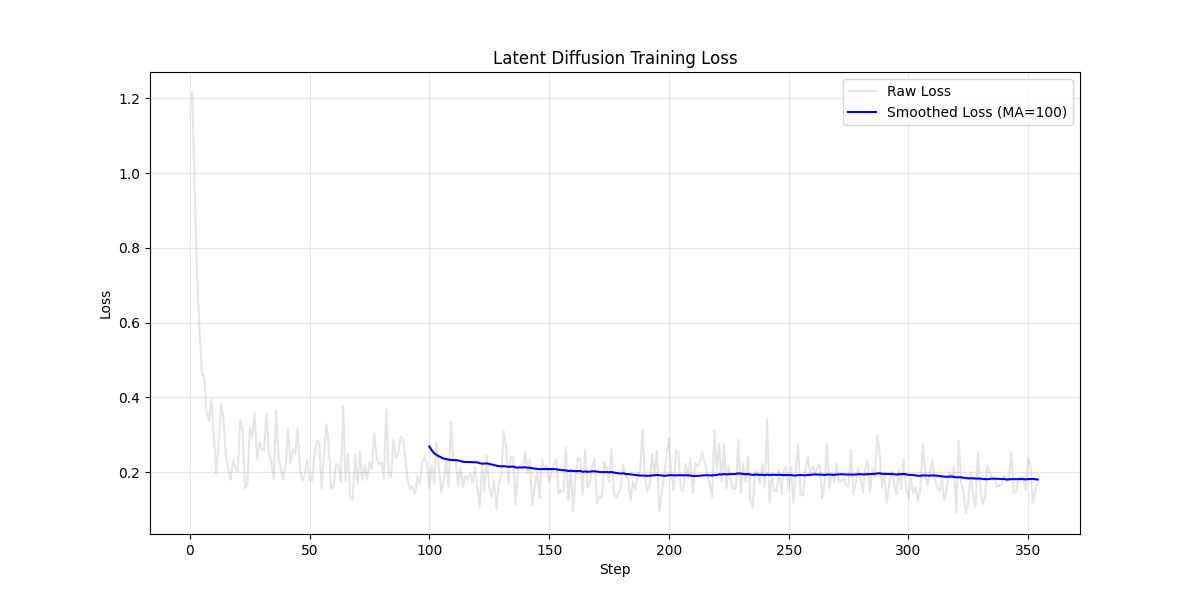
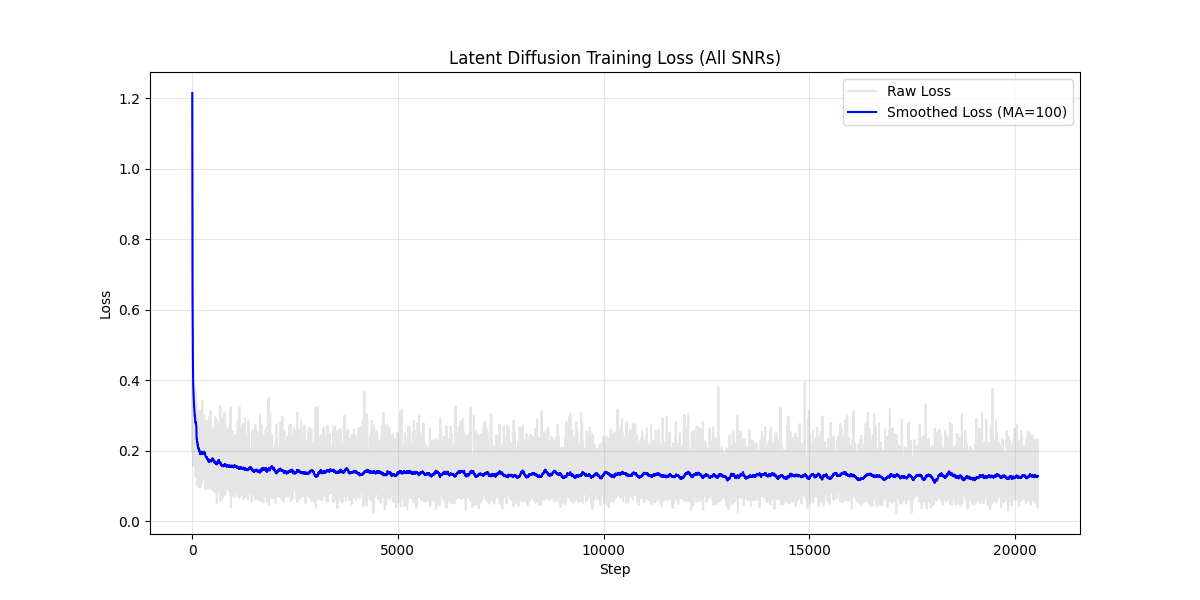
plot loss target snr

diff --git a/plot_loss.py b/plot_loss.py
@@ -3,7 +3,7 @@ import matplotlib.pyplot as plt
 import argparse
 import os
 
-def plot_loss(log_file, output_img):
+def plot_loss(log_file, output_img, target_snr=None, window=100):
     if not os.path.exists(log_file):
         print(f"Log file not found: {log_file}")
         return
@@ -15,8 +15,32 @@ def plot_loss(log_file, output_img):
         print(f"Error reading CSV: {e}")
         return
 
-    # 移動平均を計算してトレンドを見やすくする (Windowサイズ=100)
-    df['loss_smooth'] = df['loss'].rolling(window=100).mean()
+    # カラム名の空白除去（念のため）
+    df.columns = [c.strip() for c in df.columns]
+
+    # SNRフィルタリングモード
+    if target_snr is not None:
+        if 'snr' not in df.columns:
+            print("Error: 'snr' column not found in CSV. Cannot filter by SNR.")
+            return
+        
+        # 指定されたSNRの行のみ抽出
+        original_count = len(df)
+        df = df[df['snr'] == target_snr]
+        filtered_count = len(df)
+        
+        if filtered_count == 0:
+            print(f"No data found for SNR={target_snr}")
+            return
+        
+        print(f"Plotting mode: SNR={target_snr}dB (Found {filtered_count}/{original_count} steps)")
+        plot_title = f'Latent Diffusion Training Loss (SNR={target_snr}dB)'
+    else:
+        print(f"Plotting mode: All Data")
+        plot_title = 'Latent Diffusion Training Loss (All SNRs)'
+
+    # 移動平均を計算 (min_periods=1にすることでデータ不足時のNaNを防ぐ)
+    df['loss_smooth'] = df['loss'].rolling(window=window, min_periods=1).mean()
 
     plt.figure(figsize=(12, 6))
     
@@ -24,11 +48,11 @@ def plot_loss(log_file, output_img):
     plt.plot(df['step'], df['loss'], alpha=0.2, color='gray', label='Raw Loss')
     
     # 移動平均（濃く表示）
-    plt.plot(df['step'], df['loss_smooth'], color='blue', label='Smoothed Loss (MA=100)')
+    plt.plot(df['step'], df['loss_smooth'], color='blue', label=f'Smoothed Loss (MA={window})')
     
     plt.xlabel('Step')
     plt.ylabel('Loss')
-    plt.title('Latent Diffusion Training Loss')
+    plt.title(plot_title)
     plt.legend()
     plt.grid(True, alpha=0.3)
     
@@ -39,6 +63,16 @@ if __name__ == "__main__":
     parser = argparse.ArgumentParser()
     parser.add_argument("--log_file", type=str, default="results/latent_diffusion_normalized_ckpt/loss_log.csv")
     parser.add_argument("--output_img", type=str, default="loss_curve.png")
+    
+    # 新機能: 特定のSNRを指定 (例: --target_snr 10)
+    parser.add_argument("--target_snr", type=int, default=None, help="Specific SNR to plot (e.g. 10). If not set, plots all data.")
+    
+    # 新機能: 移動平均のウィンドウサイズ変更 (SNR指定時はデータが疎になるため小さくすると良い)
+    parser.add_argument("--window", type=int, default=100, help="Window size for moving average.")
+    
     args = parser.parse_args()
     
-    plot_loss(args.log_file, args.output_img)
+    # SNR指定時は出力ファイル名にSNRを含めるように自動調整しても便利ですが、
+    # 今回はユーザー指定の output_img を優先します。
+    
+    plot_loss(args.log_file, args.output_img, args.target_snr, args.window)
